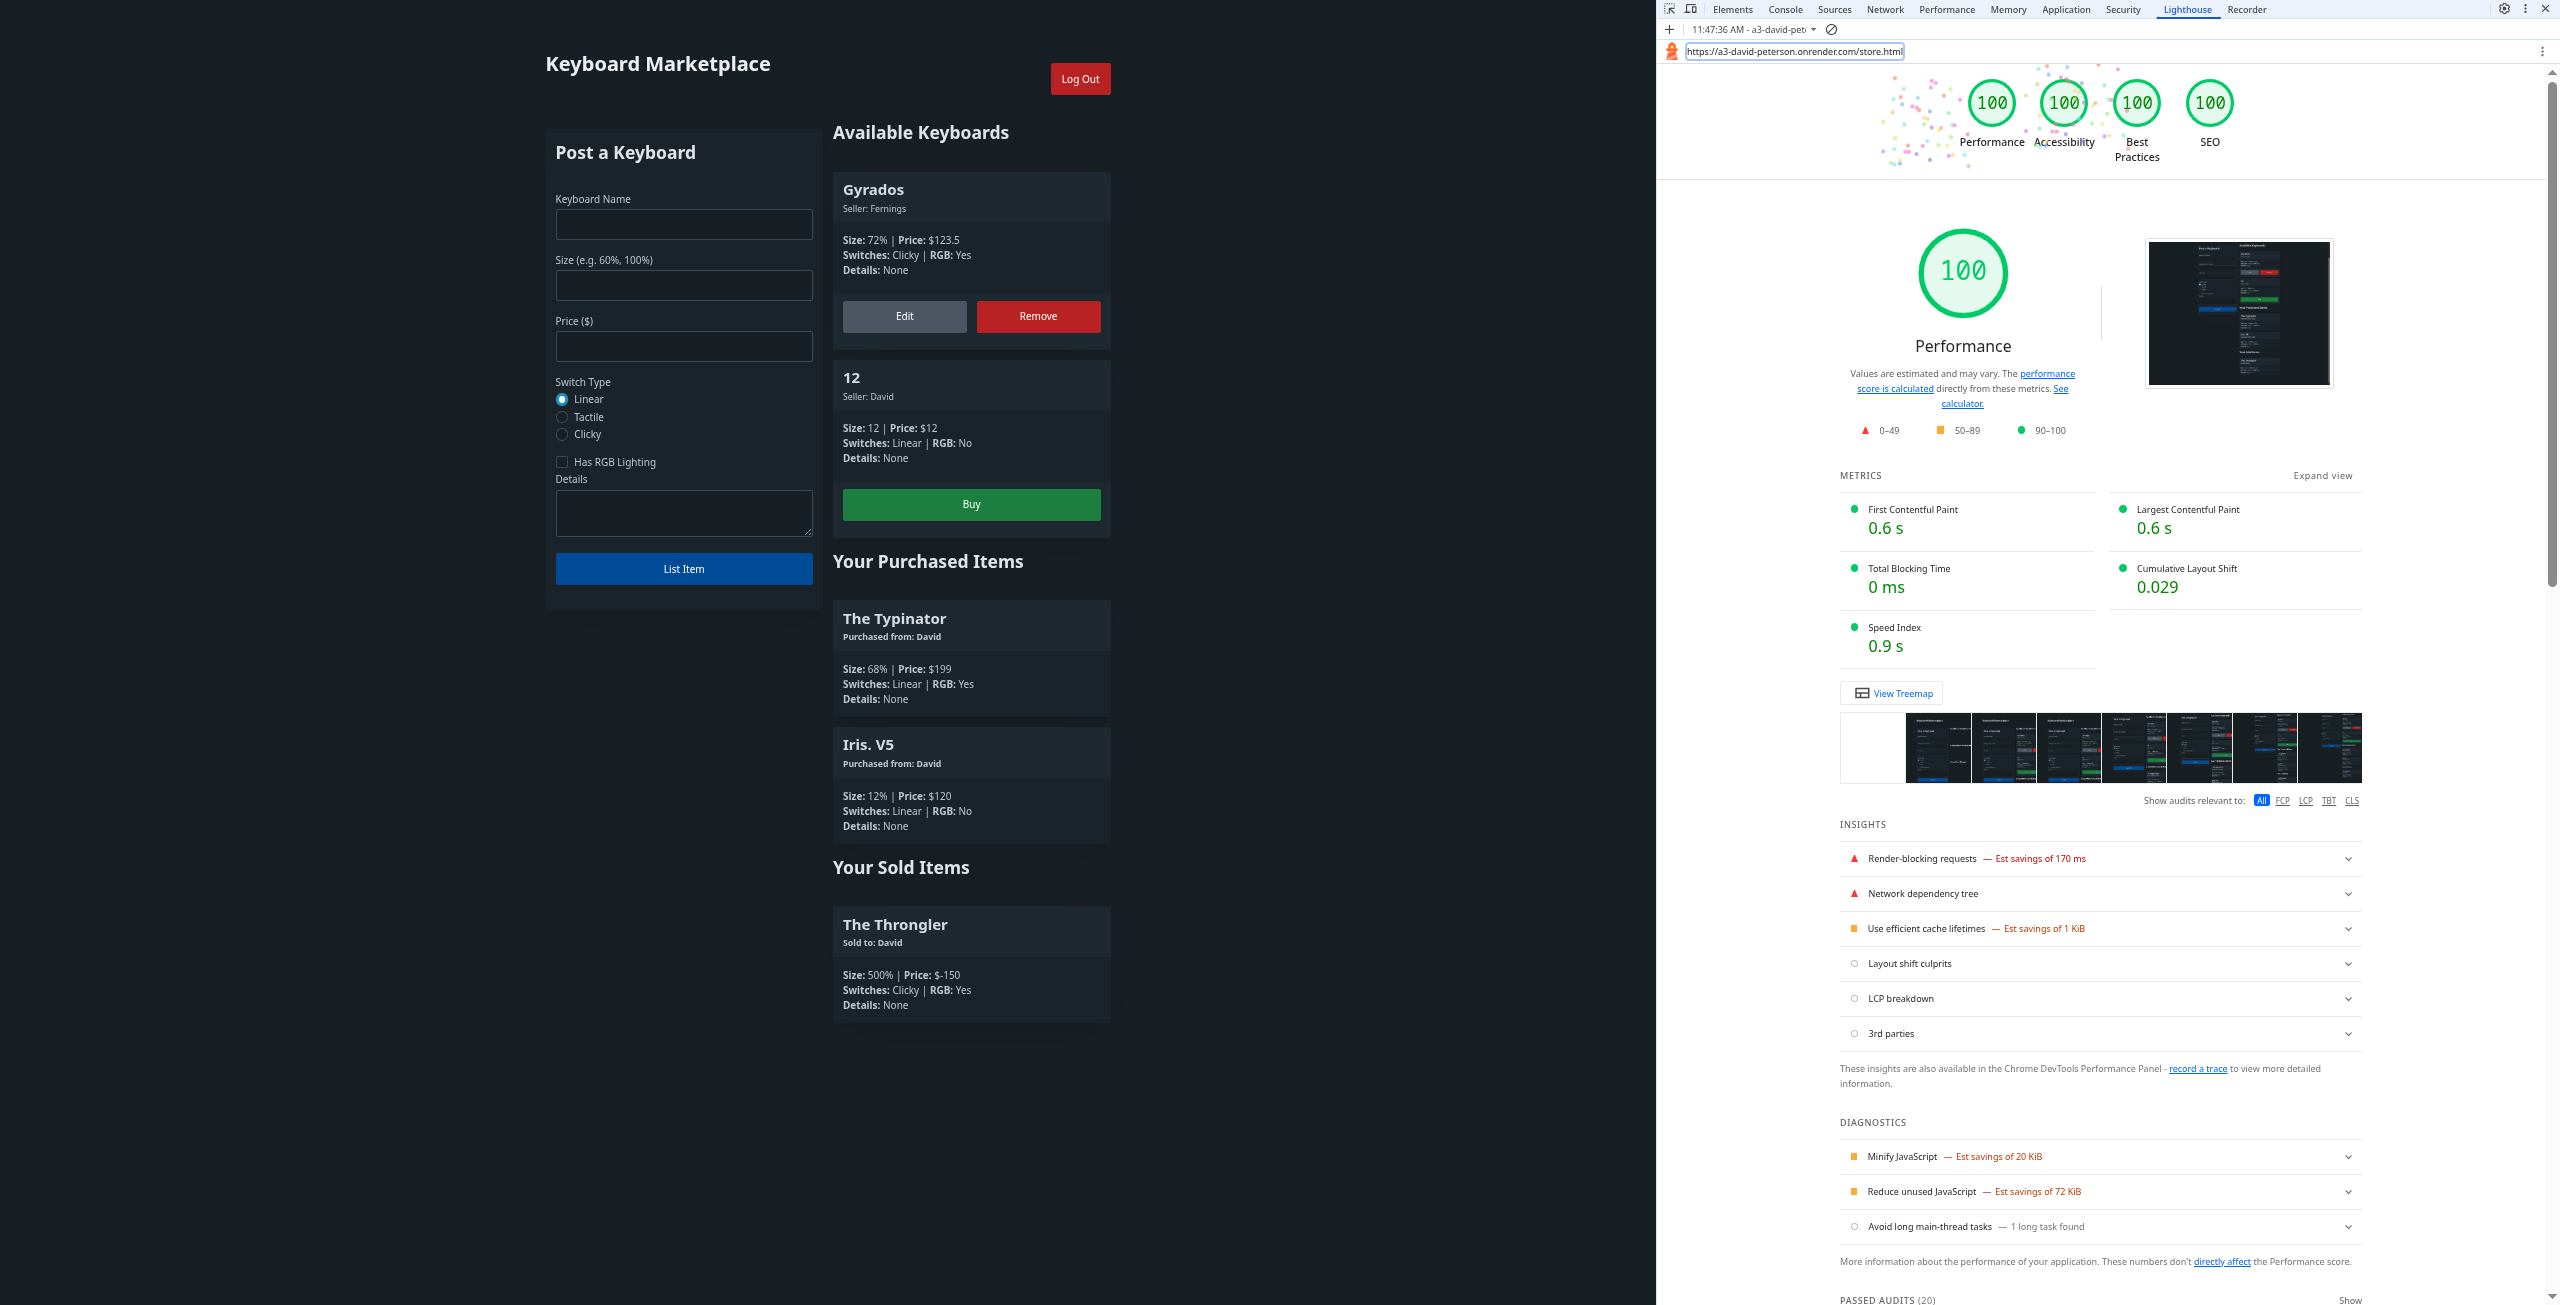
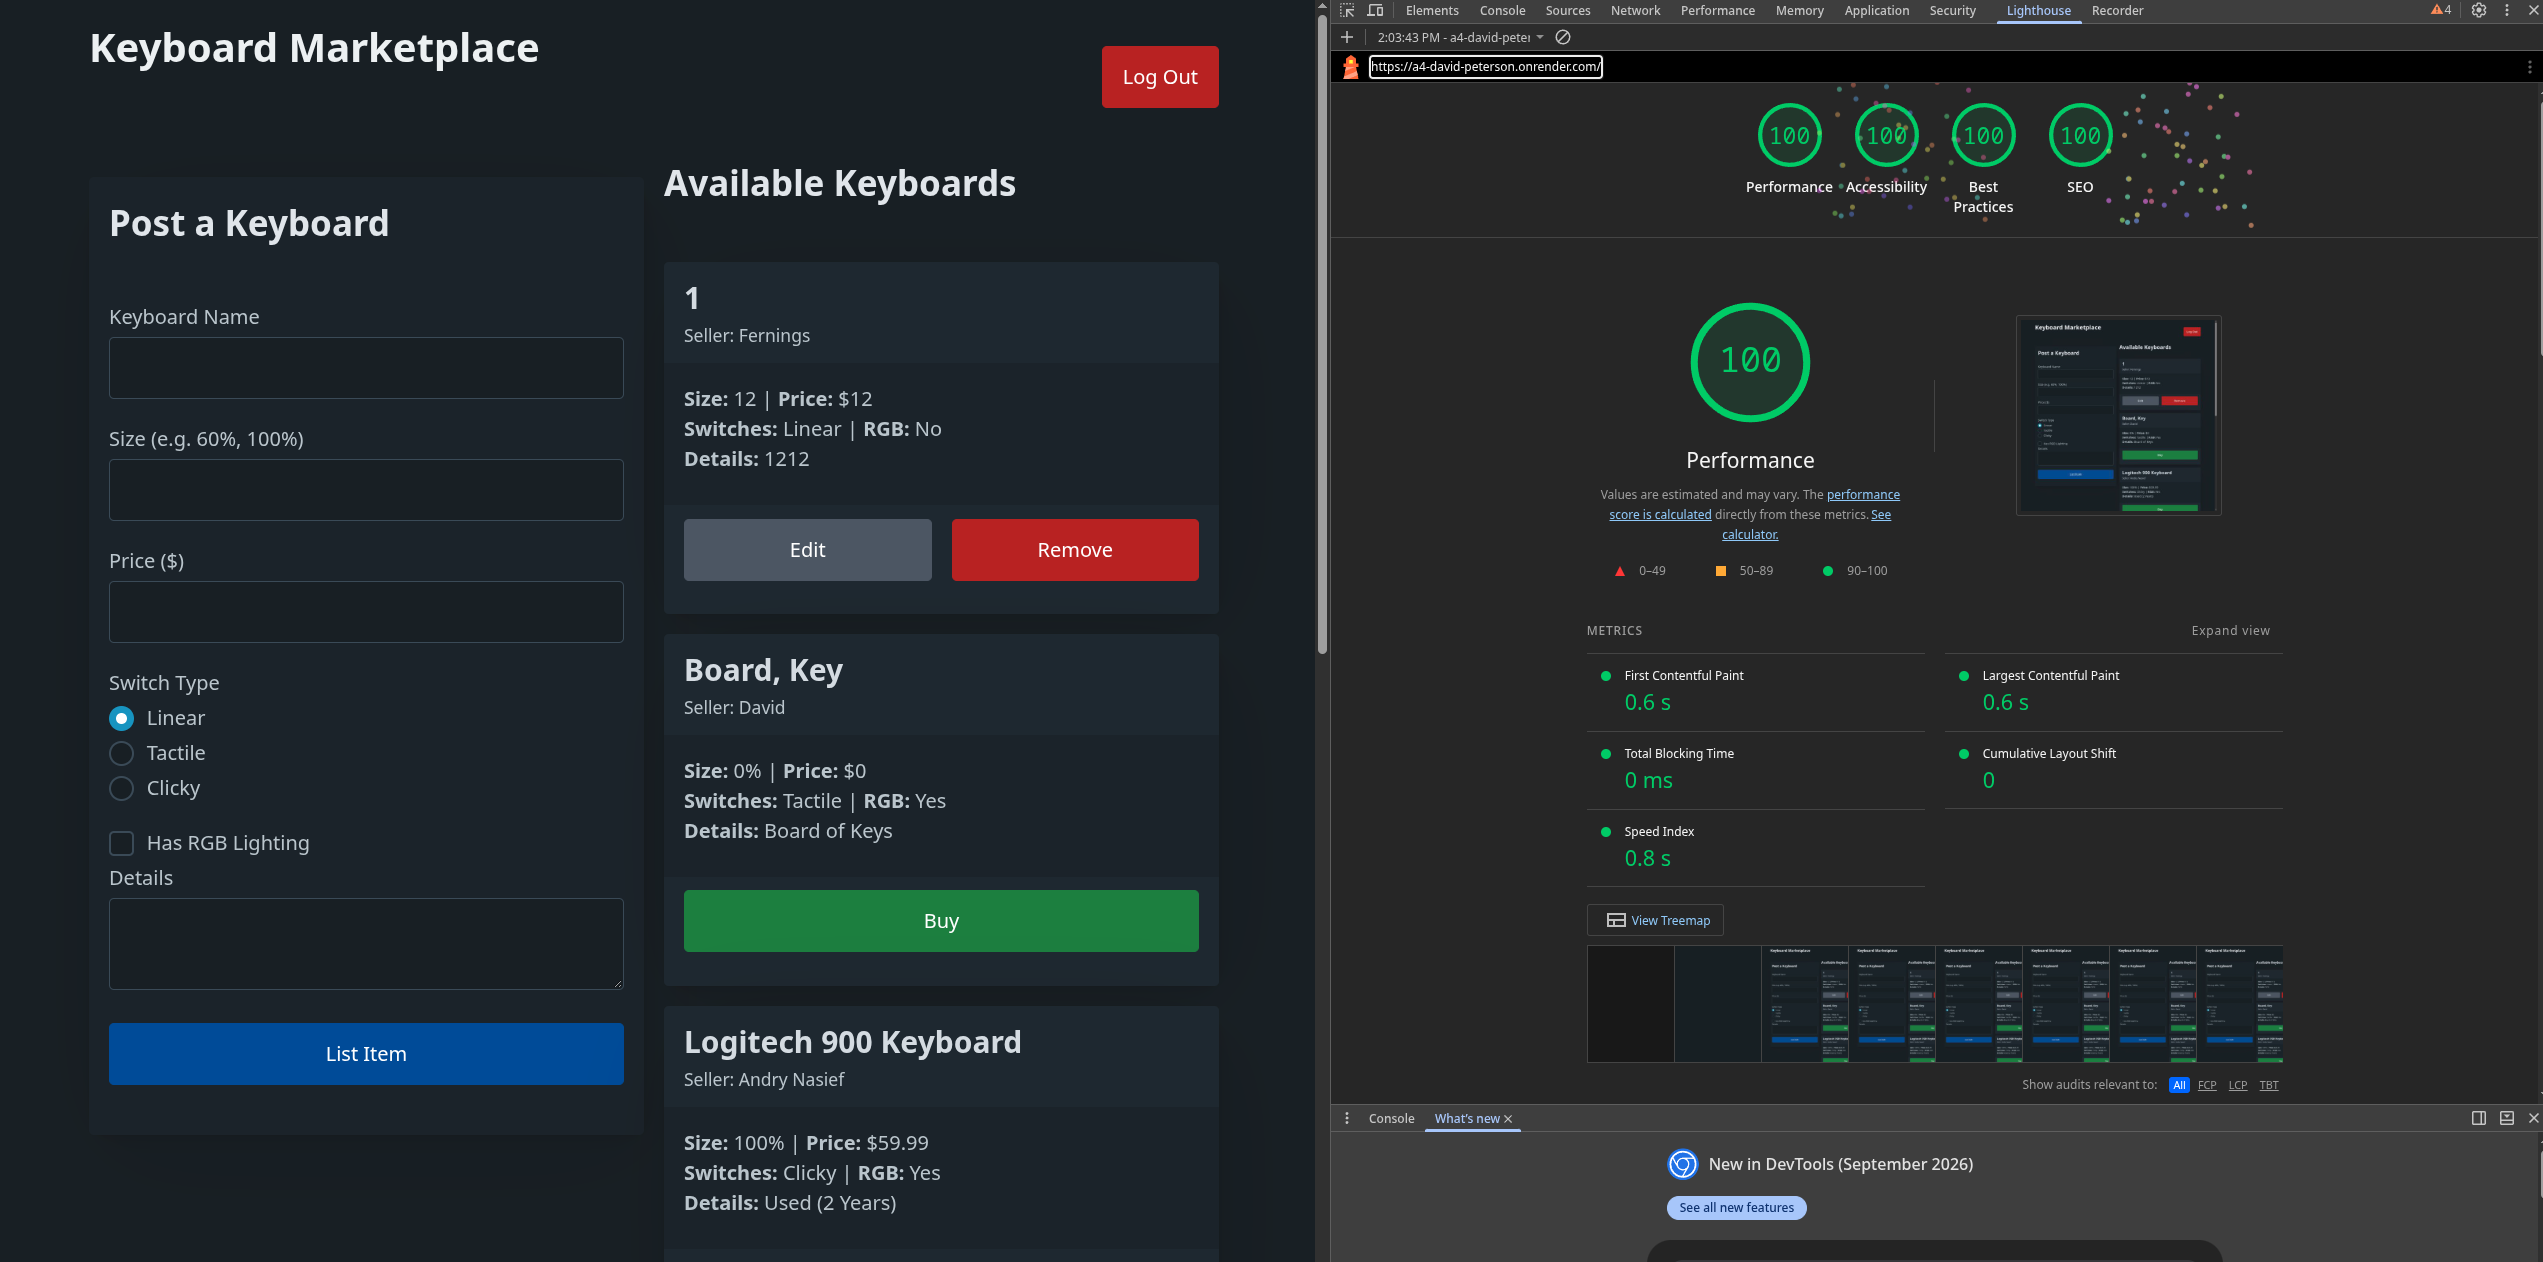
readme

diff --git a/README.md b/README.md
@@ -1,33 +1,19 @@
-Assignment 4 - Components
-===
+Keyboard Marketplace
 
-Due: September 25th, by 1:59 PM.
+[The Super Cool Website](https://a4-david-peterson.onrender.com/)
 
-For this assignment you will re-implement the client side portion of *either* A2 or A3 using either React or Svelte components. If you choose A3 you only need to use components for the data display / updating; you can leave your login UI as is.
+# Summary
+I rewrote my A4 assignment to Svelte. I replaced the previous vanilla HTML and JavaScript UI. 
+The Express backend needed to be updated to serve the Svelte application, it accesses the same MongoDB database and GitHub OAuth application.
 
-[Svelte Tutorial](https://github.com/cs-4241-26a/cs-4241-26a.github.io/blob/main/using.svelte.md)  
-[React Tutorial](https://github.com/cs-4241-26a/cs-4241-26a.github.io/blob/main/using.react.md)  
+# Svelte Development Experience 
+It is difficult to tell if Svelte helped or hindered me. This project took less time than a3, but part of that is because I already knew exactly what I wanted, the pitfalls I might encounter, and how to handle them. Overall, Svelte did not get in the way of me recreating the app, which is impressive since I have never used it before. I found it intuitive (more so than React).
 
-This project can be implemented on any hosting service (Glitch, DigitalOcean, Heroku etc.), however, you must include all files in your GitHub repo so that the course staff can view them.
+## I don't think this was required but I kept my Lighthouse Scores!
 
-Deliverables
----
-
-Do the following to complete this assignment:
-
-1. Implement your project with the above requirements.
-3. Test your project to make sure that when someone goes to your main page on Render/Heroku/etc., it displays correctly.
-4. Ensure that your project has the proper naming scheme `a4-firstname-lastname` so we can find it.
-5. Fork this repository and modify the README to the specifications below. Be sure to add *all* project files.
-6. Create and submit a Pull Request to the original repo. Name the pull request using the following template: `a4-firstname-lastname`.
-
-Sample Readme (delete the above when you're ready to submit, and modify the below so with your links and descriptions)
----
-
-## Your Web Application Title
-
-your hosting link e.g. http://a4-charlieroberts.me
-
-Include a very brief summary of your project here and what you changed / added to assignment #3. Briefly (3–4 sentences) answer the following question: did the new technology improve or hinder the development experience?
-
-Unlike previous assignments, this assignment will be solely graded on whether or not you successfully complete it. Partial credit will be generously given.
+<p float="left">
+  <p>Landing Page Lighthouse Score</p>
+  <img src="lighthouse_index.png" width="700" />
+  <p>Store Lighthouse Score</p>
+  <img src="lighthouse_store.png" width="700" /> 
+</p>
